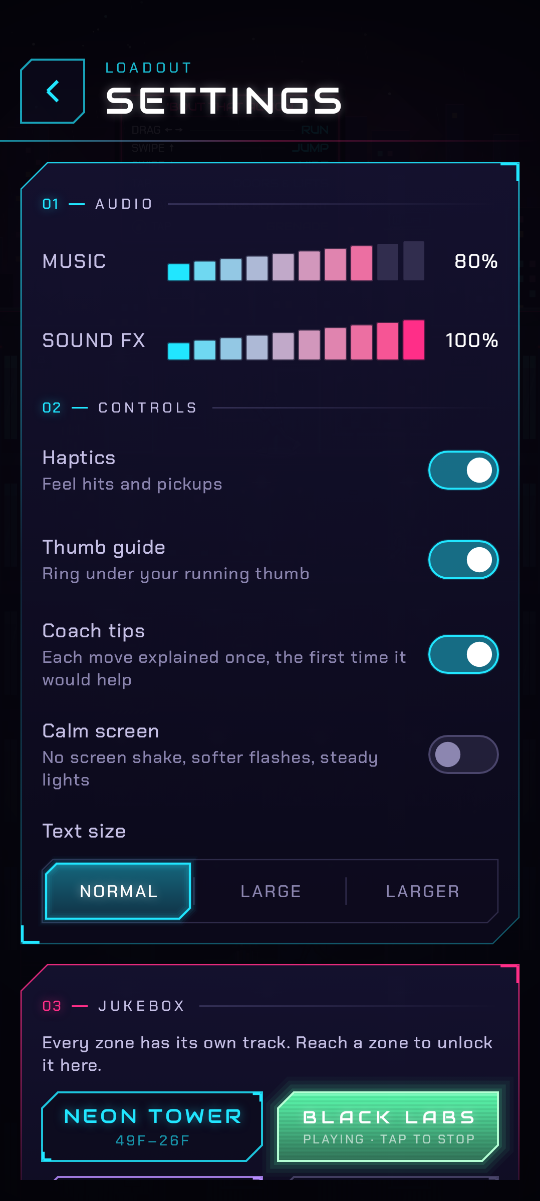
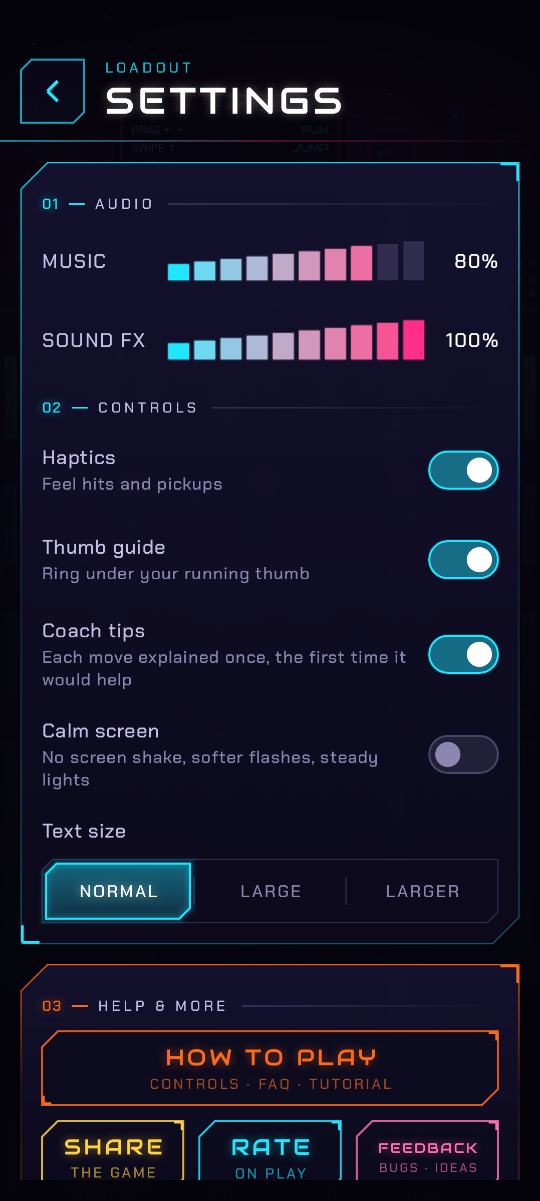
Remove the JUKEBOX; music audit: leave the game-over dirge at once (#43)
Remove the JUKEBOX; leave the game-over dirge at once

The JUKEBOX in Settings (#42) goes: every hero already plays their own
arrangement of every zone in a run. Gone with it: the settings panel, the
"tracks reached" bookkeeping and its zones_reached pref (cleared on the next
settings save, like auto_fire), the menu-shot arguments, the docs and the
Play listing bullet. menu-settings.png is re-rendered; the changelog is
rewritten.

Why it seemed broken: it worked mechanically, but it pinned the music's
intensity at 0, which is every arrangement's sparsest layer (BULL's and
FOX's kick and bass hold back until a fight), at 40-70% of the title's
level, and it waited for the title's next bar (1-3 s) while the button
already said PLAYING. Tapping a track mostly made the music quieter.

Music audit fix: RETRY, NEW RUN and TITLE from the game-over screen waited
for the 72 BPM dirge's next bar, so the dirge played 2-5 s into the new run
or the title. Leaving the game-over loop now crossfades straight away.
New tests walk the app's whole music path for every hero and pin the
game-over exit.

Claude-Session: https://claude.ai/code/session_01M4zXyLaM2ZM8jKFG14SVPc

Changed region(s): [[0.0296, 0.801, 0.9778, 0.9858]]

diff --git a/app/src/main/java/com/bradflaugher/aboutthataction/MainActivity.kt b/app/src/main/java/com/bradflaugher/aboutthataction/MainActivity.kt
@@ -141,7 +141,6 @@ class MainActivity : ComponentActivity(), GameView.Host {
         challengeLog = prefs.loadChallenges()
         welcome = !prefs.loadIntroSeen()
         learned = prefs.loadLearned()
-        zonesReached = prefs.loadZonesReached()
         walkthroughDone = prefs.loadWalkthroughDone()
         sound = SoundEngine()
         audio = AudioOutput(sound)
@@ -184,7 +183,7 @@ class MainActivity : ComponentActivity(), GameView.Host {
                     Screen.HELP -> { screen = helpFrom }
                     Screen.CUSTOM, Screen.CHALLENGES -> { screen = Screen.TITLE }
                     Screen.BRIEFING -> { screen = briefingFrom }
-                    Screen.SETTINGS -> settingsBack()
+                    Screen.SETTINGS -> { screen = Screen.TITLE }
                     Screen.GAME_OVER -> toTitle()
                     Screen.TITLE -> Unit
                 }
@@ -270,10 +269,7 @@ class MainActivity : ComponentActivity(), GameView.Host {
                             onBack = ::heroesBack,
                         )
                         Screen.SETTINGS -> SettingsScreen(
-                            settings, pad, ::updateSettings, onBack = ::settingsBack, onHelp = { openHelp(Screen.SETTINGS) },
-                            jukebox = jukeboxUnlocked(),
-                            playing = jukebox,
-                            onJukebox = ::playJukebox,
+                            settings, pad, ::updateSettings, onBack = { screen = Screen.TITLE }, onHelp = { openHelp(Screen.SETTINGS) },
                         )
                         Screen.HELP -> HelpScreen(pad, onBack = { screen = helpFrom }, onReplayTutorial = ::replayTutorial)
                         Screen.PAUSED -> PauseScreen(
@@ -437,8 +433,6 @@ class MainActivity : ComponentActivity(), GameView.Host {
     private fun startRun(config: RunConfig) {
         // Dropping in is answer enough to the title's first-time card.
         introSeen()
-        // A run takes over the music: the jukebox (settings, or settings → HOW TO PLAY → REPLAY) stops.
-        jukebox = null
         startAudio()
         runConfig = config
         runSeed = config.seed
@@ -541,34 +535,6 @@ class MainActivity : ComponentActivity(), GameView.Host {
         sound.playHeroTheme(hero)
     }
 
-    /** The JUKEBOX in settings: a zone's track playing in the menus, or null for the title theme. */
-    private var jukebox by mutableStateOf<Zone?>(null)
-    /** Zones any run has reached (challenges too, which can start deep). */
-    private var zonesReached by mutableStateOf<Set<Zone>>(emptySet())
-
-    /** The tracks the JUKEBOX offers: the Neon Tower always, then every zone reached (or within the endless DEEPEST). */
-    private fun jukeboxUnlocked(): Set<Zone> =
-        Zone.entries.filter { it == Zone.TOWER || it in zonesReached || (it != Zone.ROOFTOP && records.bestFloor >= it.startFloor) }.toSet()
-
-    private fun playJukebox(zone: Zone?) {
-        jukebox = zone
-        if (zone == null) {
-            sound.playTitle()
-        } else {
-            // Calm, whatever the last run left the mix at: the menus never update it.
-            sound.setAlert(AlertPhase.CALM)
-            sound.setIntensity(0f)
-            sound.setHero(settings.hero)
-            sound.setZone(zone)
-        }
-    }
-
-    /** Out of settings: the title theme comes back if the jukebox was playing something else. */
-    private fun settingsBack() {
-        if (jukebox != null) playJukebox(null)
-        screen = Screen.TITLE
-    }
-
     private fun openHelp(from: Screen) {
         helpFrom = from
         screen = Screen.HELP
@@ -665,11 +631,6 @@ class MainActivity : ComponentActivity(), GameView.Host {
                     Toast.makeText(this, "Tutorial skipped. Replay it any time from HOW TO PLAY.", Toast.LENGTH_SHORT).show()
                 }
             }
-            // The zone's music played: the JUKEBOX has it now (a Void zone counts as the zone it plays).
-            is GameEvent.ZoneEntered -> {
-                val zones = setOf(event.zone, world.musicZone)
-                runOnUiThread { if (!zonesReached.containsAll(zones)) { zonesReached = zonesReached + zones; prefs.saveZonesReached(zonesReached) } }
-            }
             else -> Unit
         }
         // The GUNS HOT / SILENT choice sticks between runs.
@@ -694,9 +655,6 @@ class MainActivity : ComponentActivity(), GameView.Host {
             sound.setSlowMo(musicSlowMo)
         }
         if (++musicFrame % 15 == 0) sound.setIntensity(world.intensity)
-        // Every track the run plays goes on the JUKEBOX, the Void's borrowed zones too.
-        val mz = world.musicZone
-        if (mz !in zonesReached) runOnUiThread { if (mz !in zonesReached) { zonesReached = zonesReached + mz; prefs.saveZonesReached(zonesReached) } }
         speakGuide(world)
     }
 

diff --git a/app/src/test/java/com/bradflaugher/aboutthataction/audio/SoundEngineTest.kt b/app/src/test/java/com/bradflaugher/aboutthataction/audio/SoundEngineTest.kt
@@ -5,6 +5,7 @@ import com.bradflaugher.aboutthataction.audio.AudioTestUtil.maxWindowRms
 import com.bradflaugher.aboutthataction.audio.AudioTestUtil.render
 import com.bradflaugher.aboutthataction.audio.AudioTestUtil.rms
 import com.bradflaugher.aboutthataction.engine.GameEvent
+import com.bradflaugher.aboutthataction.engine.Hero
 import com.bradflaugher.aboutthataction.engine.Zone
 import org.junit.Assert.assertArrayEquals
 import org.junit.Assert.assertEquals
@@ -384,5 +385,77 @@ class SoundEngineTest {
         val full = level(1f, 1f)
         assertTrue(level(0f, 0f) < 1e-4)
         assertTrue(level(0.3f, 1f) < full)
+    }
+
+    /**
+     * The whole trip the app takes the music on, as MainActivity sends it, for every hero: the
+     * title, the hero picker's theme and back, a run in the hero's own arrangement (zone change,
+     * pause, resume), game over, retry, game over again and back to the title.
+     */
+    @Test
+    fun theMenusAndARunPlayTheRightTrackForEveryHero() {
+        fun settle(e: SoundEngine, want: String, seconds: Float = 6f) {
+            render(e, seconds)
+            assertEquals(want, e.currentSong)
+        }
+        for (h in Hero.entries) {
+            val tag = h.name.lowercase()
+            val e = SoundEngine()
+            e.playTitle()
+            settle(e, "title", 1f)
+            e.playHeroTheme(h)
+            settle(e, "$tag-theme")
+            e.playTitle()
+            settle(e, "title")
+            // DROP IN: the hero first, then the run's first zone.
+            e.setHero(h); e.setZone(Zone.ROOFTOP)
+            settle(e, "rooftop-$tag")
+            e.setZone(Zone.TOWER)
+            settle(e, "tower-$tag")
+            e.setPaused(true)
+            settle(e, "tower-$tag", 1f)
+            e.setPaused(false)
+            e.gameOver()
+            settle(e, "gameover", 3f)
+            // RETRY: the new run's track takes over at once, not after the dirge's slow bar.
+            e.setHero(h); e.setZone(Zone.ROOFTOP)
+            settle(e, "rooftop-$tag", 0.1f)
+            e.gameOver()
+            settle(e, "gameover", 4f)
+            // TITLE from the game-over screen: the same.
+            e.playTitle()
+            settle(e, "title", 0.1f)
+        }
+    }
+
+    /** The menus' music doesn't follow the heat: the title sounds the same whatever the last run left behind. */
+    @Test
+    fun menuMusicIgnoresTheLastRunsHeat() {
+        fun title(heat: Float): FloatArray {
+            val e = SoundEngine()
+            e.setIntensity(heat)
+            e.playTitle()
+            return render(e, 4f)
+        }
+        assertArrayEquals(title(0f), title(1f), 0f)
+    }
+
+    /** Leaving the game-over dirge never waits for its slow bar line, however far into it you are. */
+    @Test
+    fun leavingGameOverIsImmediate() {
+        for (wait in listOf(2f, 3f, 4f, 5f, 6f, 8f, 10f)) {
+            for (title in listOf(false, true)) {
+                val e = SoundEngine()
+                e.setZone(Zone.TOWER)
+                render(e, 3f)
+                e.gameOver()
+                render(e, wait)
+                assertEquals("gameover", e.currentSong)
+                if (title) e.playTitle() else e.setZone(Zone.ROOFTOP)
+                val out = render(e, 1f)
+                assertEquals("${if (title) "title" else "retry"} after ${wait}s of game over", if (title) "title" else "rooftop", e.currentSong)
+                assertSane(out, "leave game over")
+            }
+        }
     }
 }

diff --git a/app/src/main/java/com/bradflaugher/aboutthataction/ui/SettingsScreen.kt b/app/src/main/java/com/bradflaugher/aboutthataction/ui/SettingsScreen.kt
@@ -29,8 +29,6 @@ import androidx.compose.ui.semantics.semantics
 import androidx.compose.ui.unit.dp
 import androidx.compose.ui.unit.sp
 import com.bradflaugher.aboutthataction.Settings
-import com.bradflaugher.aboutthataction.engine.FloorLabel
-import com.bradflaugher.aboutthataction.engine.Zone
 
 @Composable
 fun SettingsScreen(
@@ -39,10 +37,6 @@ fun SettingsScreen(
     onChange: (Settings) -> Unit,
     onBack: () -> Unit,
     onHelp: () -> Unit = {},
-    /** The JUKEBOX: zones whose track you've unlocked (reached), the one playing, and play one (null: the title theme). */
-    jukebox: Set<Zone> = emptySet(),
-    playing: Zone? = null,
-    onJukebox: (Zone?) -> Unit = {},
 ) {
     val s = settings
     Box(Modifier.fillMaxSize().veil(alpha = 0.9f).padding(insets)) {
@@ -63,11 +57,8 @@ fun SettingsScreen(
                 Panel(groupMod.reveal(40, 12.dp, Motion.base + 80), accent = Neon.cyan) {
                     AudioAndControls(s, onChange, audioIndex = "01", controlsIndex = "02")
                 }
-                Panel(groupMod.reveal(70, 12.dp, Motion.base + 80), accent = Neon.magenta) {
-                    Jukebox(jukebox, playing, onJukebox)
-                }
                 Panel(groupMod.reveal(90, 12.dp, Motion.base + 80), accent = Neon.lava) {
-                    SectionHeader("04", "HELP & MORE", Neon.lava)
+                    SectionHeader("03", "HELP & MORE", Neon.lava)
                     NeonButton("HOW TO PLAY", Neon.lava, Modifier.fillMaxWidth(), caption = "CONTROLS · FAQ · TUTORIAL", onClick = onHelp)
                     MoreLinks()
                 }
@@ -75,36 +66,6 @@ fun SettingsScreen(
                 PrivacyLink()
                 Spacer(Modifier.height(Space.xs))
             }
-        }
-    }
-}
-
-/**
- * The JUKEBOX: every zone's track, once you've been there (the deeper zones stay ??? until you
- * reach them). Tap one to hear it here, played the way your hero plays it; tap it again, or
- * leave settings, for the title theme.
- */
-@Composable
-private fun Jukebox(unlocked: Set<Zone>, playing: Zone?, onPlay: (Zone?) -> Unit) {
-    SectionHeader("03", "JUKEBOX", Neon.magenta)
-    NeonText("Every zone has its own track. Reach a zone to unlock it here.", size = Type.small, color = Neon.soft, glow = 0f)
-    val zones = Zone.entries.filter { it != Zone.ROOFTOP }
-    for (row in zones.chunked(2)) {
-        Row(Modifier.fillMaxWidth(), horizontalArrangement = Arrangement.spacedBy(Space.s)) {
-            for (z in row) {
-                val open = z in unlocked
-                val on = z == playing
-                NeonButton(
-                    if (open) z.title else "???", if (open) Neon.zone(z) else Neon.faint,
-                    Modifier.weight(1f).semantics {
-                        contentDescription = if (open) "Play the ${z.title} track" + (if (on) ", playing" else "") else "Locked: reach ${FloorLabel.of(z.startFloor)}"
-                    },
-                    style = if (on) ButtonStyle.PRIMARY else ButtonStyle.SECONDARY, height = 52.dp, textSize = Type.body,
-                    caption = if (on) "PLAYING · TAP TO STOP" else if (open) z.subtitle.substringBefore(" ·").uppercase() else "REACH " + FloorLabel.of(z.startFloor),
-                    onClick = { if (open) onPlay(if (on) null else z) },
-                )
-            }
-            if (row.size == 1) Box(Modifier.weight(1f))
         }
     }
 }

diff --git a/app/src/test/java/com/bradflaugher/aboutthataction/ui/MenuShotsTest.kt b/app/src/test/java/com/bradflaugher/aboutthataction/ui/MenuShotsTest.kt
@@ -169,7 +169,7 @@ class MenuShotsTest {
                 }
             }
             shot("$device-settings", 900, world()) {
-                SettingsScreen(s, insets, {}, {}, jukebox = setOf(Zone.TOWER, Zone.LABS, Zone.METRO), playing = Zone.LABS)
+                SettingsScreen(s, insets, {}, {})
             }
 
             shot("$device-board", 900, world()) {
@@ -250,7 +250,7 @@ class MenuShotsTest {
                 GameOverScreen(run.copy(challenge = status(today, today.target, true)), insets, {}, {}, {}, records)
             }
             shot("font-settings", 900, world()) {
-                SettingsScreen(s, insets, {}, {}, jukebox = setOf(Zone.TOWER, Zone.LABS, Zone.METRO), playing = Zone.LABS)
+                SettingsScreen(s, insets, {}, {})
             }
             shot("font-help", 900, world()) {
                 HelpScreen(insets, {}, {})
@@ -271,7 +271,7 @@ class MenuShotsTest {
                 shot("textsize-$tag-title", 1800, world()) {
                     TextSizeScope(k) { TitleScreen(s, records, insets, {}, {}, {}, {}, {}, daily = daily.copy(best = "2/5", bestFraction = 0.4f), challengesCaption = caption) }
                 }
-                shot("textsize-$tag-settings", 900, world()) { TextSizeScope(k) { SettingsScreen(s, insets, {}, {}, jukebox = setOf(Zone.TOWER, Zone.LABS, Zone.METRO), playing = Zone.LABS) } }
+                shot("textsize-$tag-settings", 900, world()) { TextSizeScope(k) { SettingsScreen(s, insets, {}, {}) } }
                 shot("textsize-$tag-help", 900, world()) { TextSizeScope(k) { HelpScreen(insets, {}, {}) } }
                 shot("textsize-$tag-board", 900, world()) { TextSizeScope(k) { ChallengesScreen(log, today, daily, insets, {}, {}) } }
                 shot("textsize-$tag-pause", 700, world()) { TextSizeScope(k) { PauseScreen(s, "K7QM 2XAB", Hero.FOX, insets, {}, {}, {}, {}, onSkipTutorial = {}) } }

diff --git a/app/src/main/java/com/bradflaugher/aboutthataction/Settings.kt b/app/src/main/java/com/bradflaugher/aboutthataction/Settings.kt
@@ -7,7 +7,6 @@ import com.bradflaugher.aboutthataction.engine.Difficulty
 import com.bradflaugher.aboutthataction.engine.GameEvent
 import com.bradflaugher.aboutthataction.engine.Hero
 import com.bradflaugher.aboutthataction.engine.Lesson
-import com.bradflaugher.aboutthataction.engine.Zone
 import com.bradflaugher.aboutthataction.engine.SeedCode
 import com.bradflaugher.aboutthataction.engine.World
 
@@ -189,6 +188,7 @@ class Prefs(context: Context) {
             .putString("seed_mode", s.seedMode.name)
             .putString("seed_text", s.seedText)
             .remove("auto_fire") // retired by the GUNS HOT / SILENT mode
+            .remove("zones_reached") // only the retired JUKEBOX read it
             .putBoolean("silent", s.silent)
             .putBoolean("haptics", s.haptics)
             .putBoolean("touch_guide", s.touchGuide)
@@ -260,14 +260,6 @@ class Prefs(context: Context) {
 
     fun saveWalkthroughDone() {
         sp.edit { putBoolean("walkthrough_done", true) }
-    }
-
-    /** Zones reached in any run (endless or challenge), for the JUKEBOX. */
-    fun loadZonesReached(): Set<Zone> =
-        sp.getString("zones_reached", "").orEmpty().split(',').mapNotNull { n -> Zone.entries.firstOrNull { it.name == n } }.toSet()
-
-    fun saveZonesReached(set: Set<Zone>) {
-        sp.edit { putString("zones_reached", set.sortedBy { it.ordinal }.joinToString(",") { it.name }) }
     }
 
     fun loadRecords() = Records(sp.getLong("best_score", 0), sp.getInt("best_floor", 0), sp.getInt("runs", 0))

diff --git a/app/src/main/java/com/bradflaugher/aboutthataction/audio/SoundEngine.kt b/app/src/main/java/com/bradflaugher/aboutthataction/audio/SoundEngine.kt
@@ -184,7 +184,7 @@ class SoundEngine(val sampleRate: Int = 48000) {
                     val spec = HeroSongs.forZone(hero, c.zone, c.silent)
                     // Same zone, other mode: a quick crossfade, not a wait for the bar line.
                     val modeFlip = director.current.let { it != null && it !== spec && HeroSongs.forZone(hero, c.zone, !c.silent) === it }
-                    director.request(spec, immediate = modeFlip)
+                    director.request(spec, immediate = modeFlip || inGameOver())
                 }
                 is HeroCmd -> hero = c.hero
                 is ThemeCmd -> {
@@ -196,7 +196,7 @@ class SoundEngine(val sampleRate: Int = 48000) {
                 }
                 TitleCmd -> {
                     gameOverWait = -1
-                    director.request(Songs.title, immediate = false)
+                    director.request(Songs.title, immediate = inGameOver())
                 }
                 GameOverCmd -> {
                     sfx.gameOverStinger(hero)
@@ -206,6 +206,12 @@ class SoundEngine(val sampleRate: Int = 48000) {
             }
         }
     }
+
+    /**
+     * The game-over dirge is playing: RETRY, NEW RUN or TITLE leaves it with a quick crossfade.
+     * Waiting for its slow bar (up to ~5 s at 72 BPM) played the dirge into the next run.
+     */
+    private fun inGameOver(): Boolean = director.current === Songs.gameOver
 
     private fun renderBlock(out: FloatArray, off: Int, n: Int) {
         if (gameOverWait >= 0) {

diff --git a/docs/tester-feedback/README.md b/docs/tester-feedback/README.md
@@ -26,6 +26,6 @@ What came of each suggestion:
 | 4 | Leaderboards | **Deliberately not done.** The game has no network permission (only VIBRATE), no accounts and no analytics, and keeps it that way (`docs/PRIVACY.md`). Seed codes and challenge SHARE messages let friends compare runs through whatever they already use. |
 | + | Feedback mechanism | **Already done** (#40): FEEDBACK in Settings and HOW TO PLAY opens a GitHub issue. |
 | + | Performance at every difficulty and playstyle | **Kept.** No new per-frame work for returning players (the guide is off once everything's learned); the walkthrough draws a few lines and circles. `BotPlaythroughTest` still plays every preset. |
-| + | Sound and music customization | **Done, small.** MUSIC and SOUND FX volumes already existed; Settings now has a JUKEBOX that plays any zone's track you've reached, in your hero's arrangement. Per-zone music switches were skipped: one music volume (0 is off) covers it without eight more toggles. |
+| + | Sound and music customization | **Already done.** MUSIC and SOUND FX have their own volumes (0 is off), and each hero already plays their own arrangement of every zone's track. A JUKEBOX shipped briefly and was removed: the heroes' music already covers it. Per-zone music switches were skipped: one music volume covers it without eight more toggles. |
 | + | More visual effects per floor | **No change this round.** Every zone, special floor (blackout, nap time, payday) and the Void already look different; CALM SCREEN turns the loud ones down. |
 | + | Community forums / social groups | **Deliberately not done.** No in-game community features (that would need the network). GitHub issues are the place for feedback for now. |

diff --git a/README.md b/README.md
@@ -389,10 +389,7 @@ ALERT (full drums and lead; in SILENT, the sneak mix gives way to the zone's
 full track). Once they lose you it stays tense through CAUTION for a few
 seconds, then calms down. Takedowns get a strangled grunt. Every sound effect is
 synthesized too, panned to where it happened on screen, with haptics on the
-big moments. The **JUKEBOX** in Settings plays any zone's track you've
-reached (the deeper ones stay ??? until you get there), in your hero's
-arrangement; leave Settings and the title theme comes back. MUSIC and SOUND FX
-each have their own volume.
+big moments. MUSIC and SOUND FX each have their own volume.
 
 Every hero brings their own band to every zone, in both modes, and signs off
 the game over in their own style. **BULL** plays heavy hip-hop: a slow,

diff --git a/AGENTS.md b/AGENTS.md
@@ -105,7 +105,7 @@ the JVM.
   tutorial, and the title's one-time FIRST TIME HERE? card), pause, game
   over; settings has TEXT SIZE (`TextSizeScope` in `Theme.kt`, capped at
   `MAX_TEXT_SCALE` with the system font size, wrapping the menus but never the
-  game view) and the JUKEBOX), `Links.kt` (share the game, rate it, feedback and the privacy policy: intents
+  game view)), `Links.kt` (share the game, rate it, feedback and the privacy policy: intents
   only, never network), `Settings.kt` (prefs, seeds, the challenge log: first-clear day and best progress per id), `Haptics.kt`.
 - `app/src/test/` — JVM tests: `engine/` (mechanics, level generation,
   fuzzing, a heuristic bot that plays full runs per preset), `input/`

diff --git a/docs/tester-feedback/production-access-answers.md b/docs/tester-feedback/production-access-answers.md
@@ -85,8 +85,7 @@ provider suggested 10K-100K)]**
   streaks and leaderboards: the game has no internet permission and collects
   no data, and I don't want it pressuring anyone to come back every day.
 - **Also:** a How to play screen with an FAQ, a Calm screen option (no screen
-  shake, softer flashes), a jukebox to play each zone's music, and better
-  screen reader support.
+  shake, softer flashes) and better screen reader support.
 
 **[BRAD: trim this to fit the form's character limit if it complains]**
 
